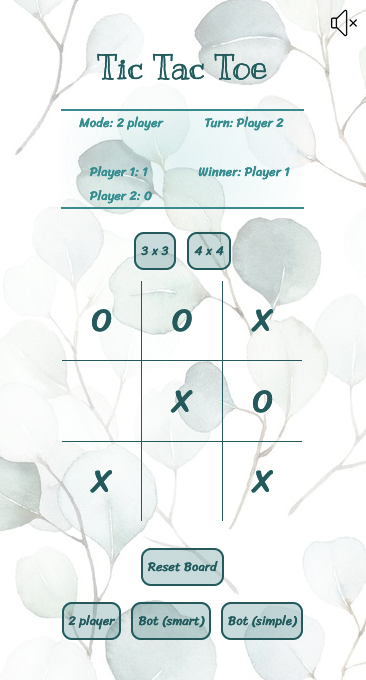
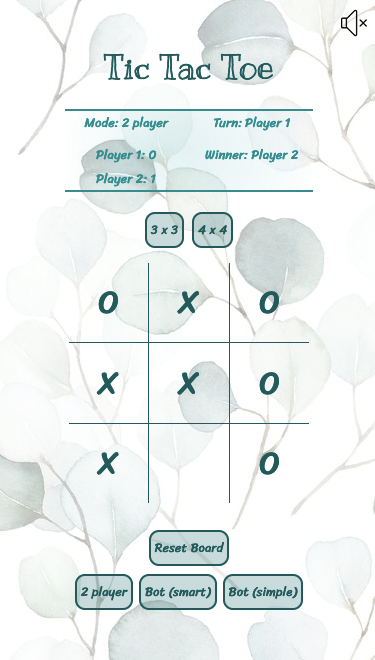
update css

diff --git a/style.css b/style.css
@@ -192,7 +192,7 @@ header {
         display: grid;
         width: 65vw;
         grid-template-columns: repeat(2, 1fr);
-        grid-template-rows: repeat(2, 1fr);
+        grid-template-rows: 1.3fr 2fr;
         height: fit-content;
         margin: 0 auto;
         color: #009999;
@@ -216,6 +216,7 @@ header {
     .right-panel {
         display: flex;
         justify-content: center;
+        padding-bottom: 8%;
     }
 
     .square-by3 {
